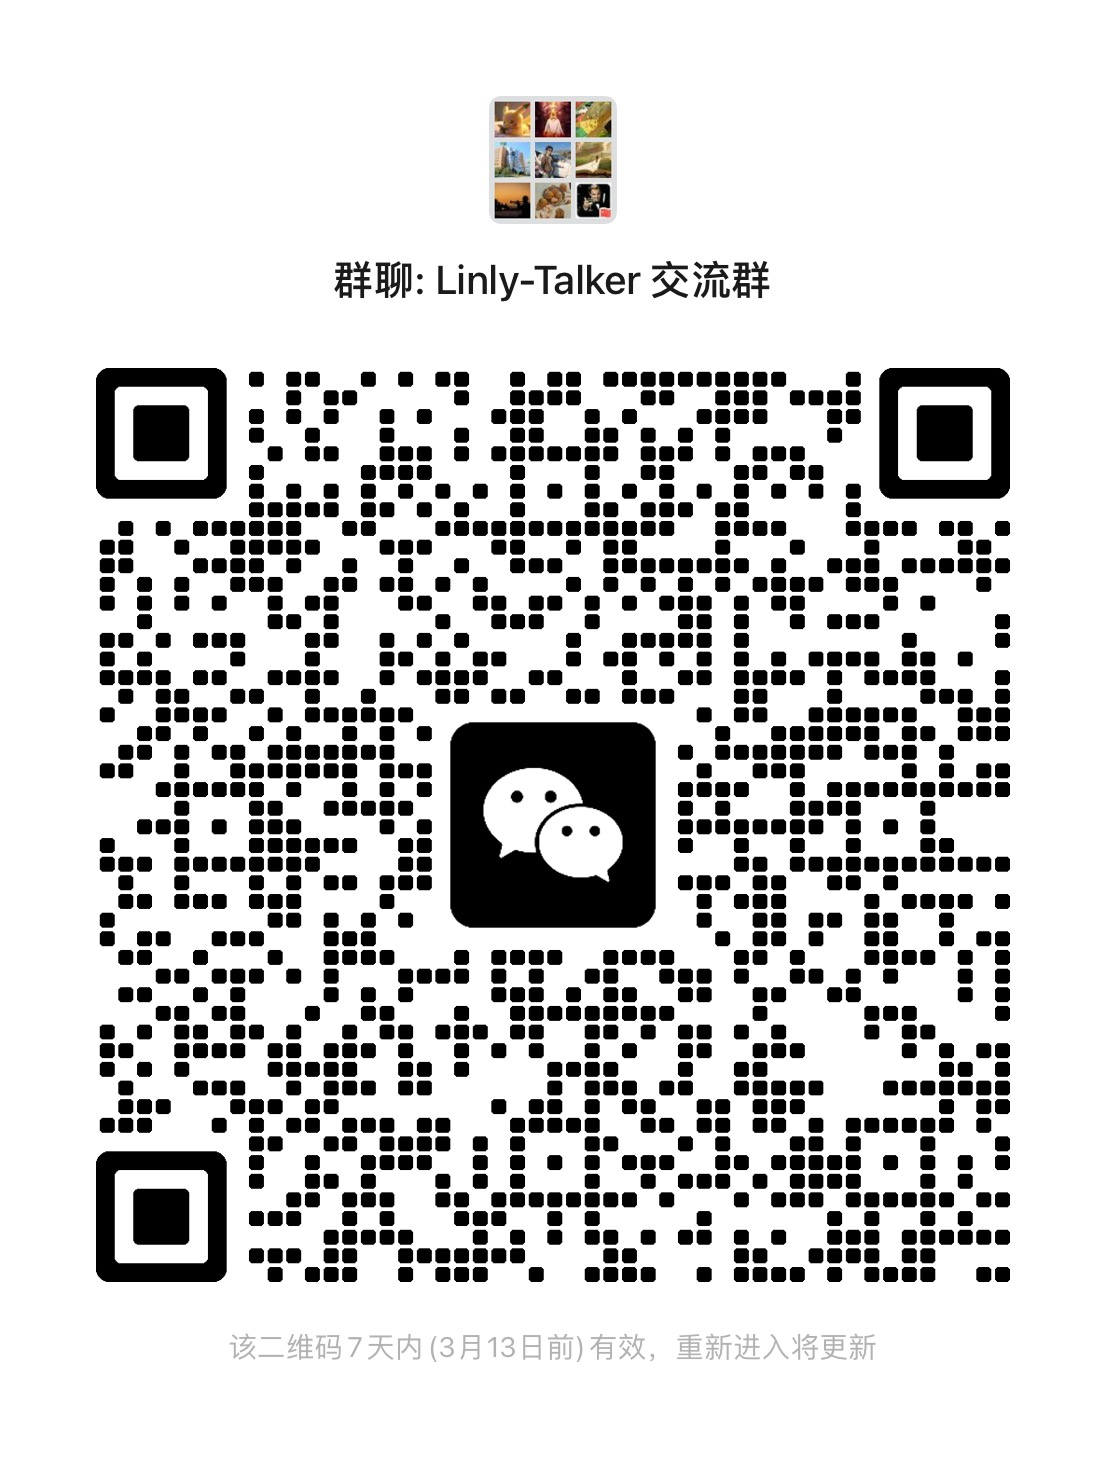
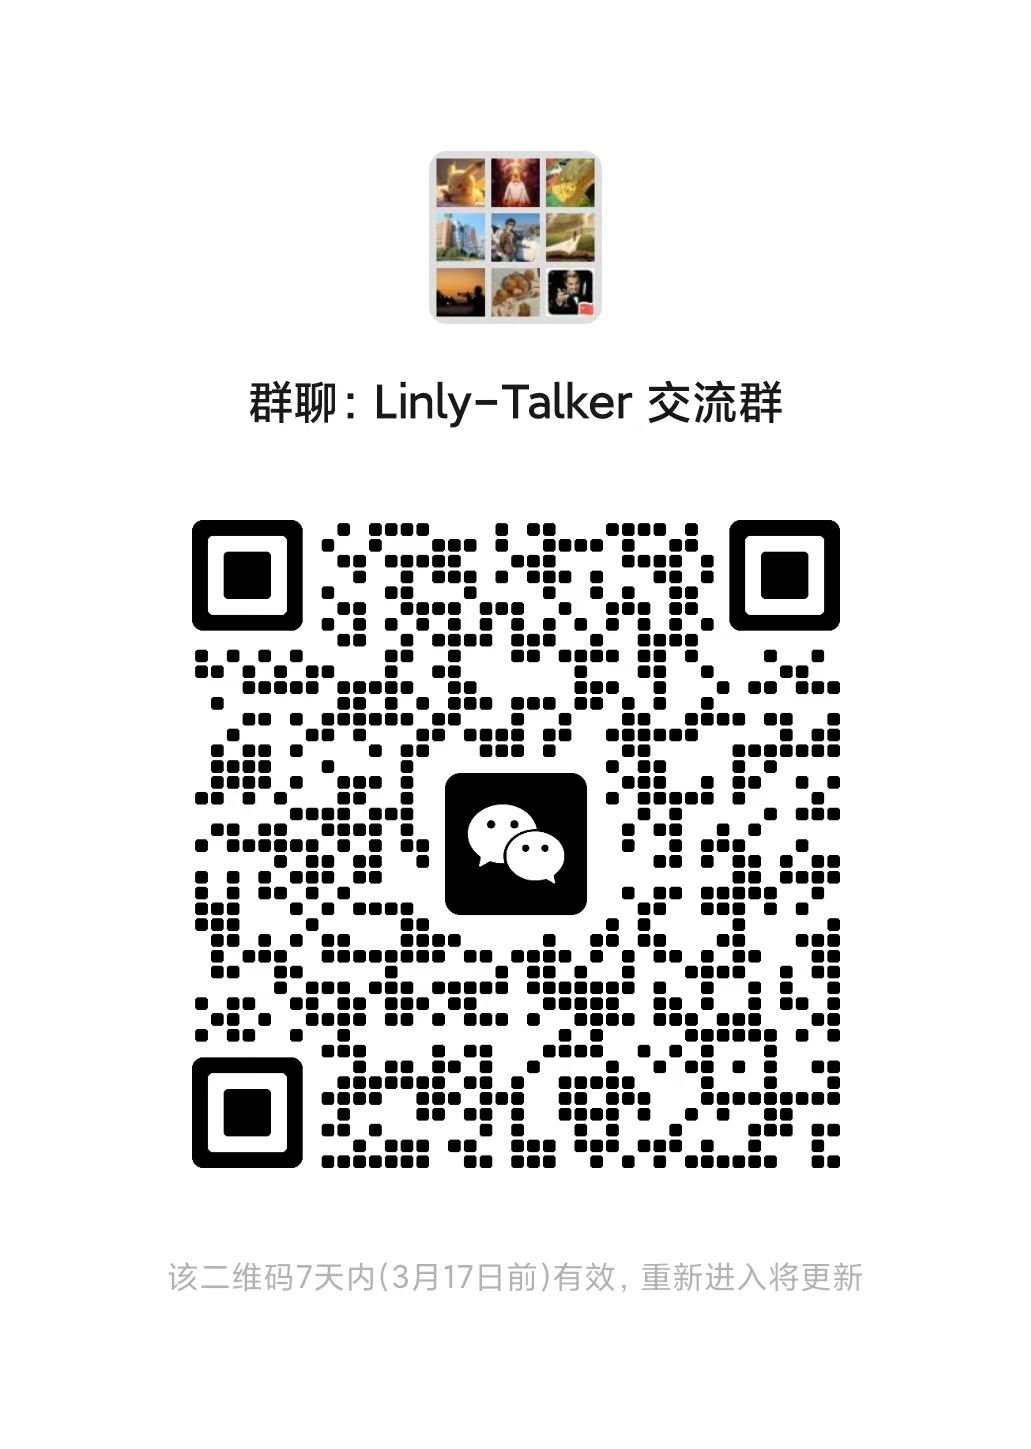
update QR

Changed region(s): [[0.0621, 0.0621, 0.9311, 0.9317]]

diff --git a/常见问题汇总.md b/常见问题汇总.md
@@ -188,4 +188,4 @@ strings /usr/lib/x86_64-linux-gnu/libstdc++.so.6 | grep GLIBCXX
 
 大家有什么想法可以在视频下方留言或者私信我，我都会看的
 
-<img src="docs/QR.png#pic_center" style="zoom:50%;" />
+<img src="docs/QR.jpg#pic_center" style="zoom:50%;" />
